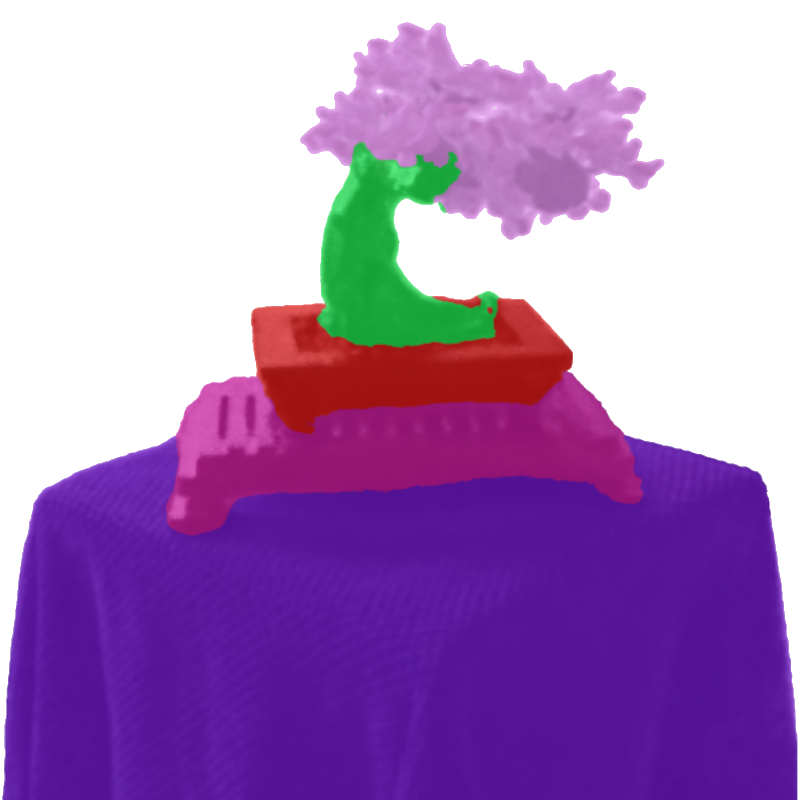
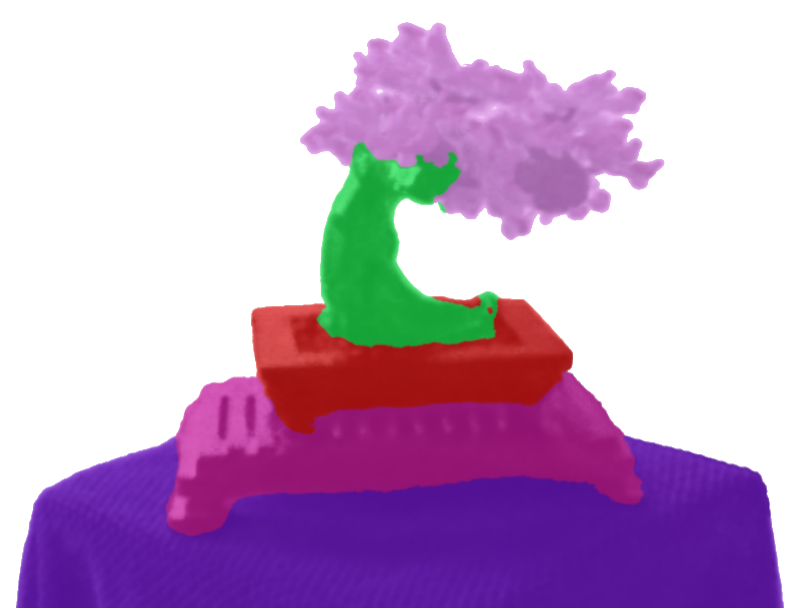
update papers and tighten publications

diff --git a/index.md b/index.md
@@ -32,62 +32,88 @@ layout: home
 
 <hr class="hr_style">
 <h1 style="text-align:center; margin-bottom: 30px;"> <b>Publications</b> </h1>
+<!-- <div class="centered_div medium">
+    <hr class="hr_style_thin">
+</div> -->
+
+<!-- Iterative-UDF, NeurIPS 2025 -->
+<div class="div_publication">
+    <div class="div_aligned div_box">
+    <div class="div_pub_left">
+        <img style="margin:5px; width:100%; border-radius:10px;" src="/assets/images/iterudf.png">
+    </div>
+    <div class="div_pub_right">
+        <b>High Resolution UDF Meshing via Iterative Networks</b><br>
+        Federico Stella, <b>Nicolas Talabot</b>, Hieu Le, Pascal Fua<br>
+        <i>NeurIPS 2025</i>
+        <a href="https://arxiv.org/abs/2509.17212">[arXiv]</a><br>
+        <!-- <p></p> -->
+        </div>
+    </div>
+</div>
+
+<!-- View-consistent Sampling for NeRFs, ICCV 2025 -->
+<div class="div_publication">
+    <div class="div_aligned div_box">
+    <div class="div_pub_left">
+        <img style="margin:5px; width:100%; border-radius:10px;" src="/assets/images/view-sampling.png">
+    </div>
+    <div class="div_pub_right"> 
+        <b>A View-consistent Sampling Method for Regularized Training of Neural Radiance Fields</b><br>
+        Aoxiang Fan, Corentin Dumery, <b>Nicolas Talabot</b>, Pascal Fua<br>
+        <i>ICCV 2025</i>
+        <a href="https://aoxiangfan.github.io/projects/nerf_sampling/index.html">[Project]</a> <a href="https://arxiv.org/abs/2507.04408">[arXiv]</a><br>
+        <!-- <p></p> -->
+        </div>
+    </div>
+</div>
 
 <!-- Pairwise SDF, MICCAI 2025 -->
 <div class="div_publication">
     <div class="div_aligned div_box">
     <div class="div_pub_left">
-        <img style="margin:5px; width:100%; border-radius:10px;" src="/assets/images/pairwise-sdf.png">
+        <img style="margin:5px; width:80%; border-radius:10px;" src="/assets/images/pairwise-sdf.png">
     </div>
     <div class="div_pub_right">
-        <h4 style="text-align: left;"><b>Pairwise-Constrained Implicit Functions for 3D Human Heart Modeling</b></h4>
-        <p>Hieu Le, Jingyi Xu, <b>Nicolas Talabot</b>, Jiancheng Yang, Pascal Fua</p>
-        <p><i>MICCAI 2025</i></p>
-        <p><a href="https://arxiv.org/pdf/2307.08716">[arXiv]</a></p>
+        <b>Pairwise-Constrained Implicit Functions for 3D Human Heart Modeling</b><br>
+        Hieu Le, Jingyi Xu, <b>Nicolas Talabot</b>, Jiancheng Yang, Pascal Fua<br>
+        <i>MICCAI 2025</i>
+        <a href="https://arxiv.org/pdf/2307.08716">[arXiv]</a><br>
         <!-- <p></p> -->
         </div>
     </div>
-</div>
-<div class="centered_div medium">
-    <hr class="hr_style_thin">
 </div>
 
 <!-- DiscoNeRF, CVPRW 2025 -->
 <div class="div_publication">
     <div class="div_aligned div_box">
     <div class="div_pub_left">
-        <img style="margin:5px; width:80%; border-radius:10px;" src="/assets/images/disconerf.png">
+        <img style="margin:5px; width:60%; border-radius:10px;" src="/assets/images/disconerf.png">
     </div>
     <div class="div_pub_right"> 
-        <h4 style="text-align: left;"><b>Enforcing View-Consistency in Class-Agnostic 3D Segmentation Fields</b></h4>
-        <p>Corentin Dumery, Aoxiang Fan, Ren Li, <b>Nicolas Talabot</b>, Pascal Fua</p>
-        <p><i>CVPRW 2025</i></p>
-        <p><a href="https://corentindumery.github.io/projects/disconerf.html">[Project]</a> <a href="https://arxiv.org/abs/2408.09928">[arXiv]</a> <a href="https://corentindumery.github.io/images/disconerf/CVPRW_DiscoNeRF_poster.pdf">[Poster]</a></p>
+        <b>Enforcing View-Consistency in Class-Agnostic 3D Segmentation Fields</b><br>
+        Corentin Dumery, Aoxiang Fan, Ren Li, <b>Nicolas Talabot</b>, Pascal Fua<br>
+        <i>CVPRW 2025</i>
+        <a href="https://corentindumery.github.io/projects/disconerf.html">[Project]</a> <a href="https://arxiv.org/abs/2408.09928">[arXiv]</a> <a href="https://corentindumery.github.io/images/disconerf/CVPRW_DiscoNeRF_poster.pdf">[Poster]</a><br>
         <!-- <p></p> -->
         </div>
     </div>
-</div>
-<div class="centered_div medium">
-    <hr class="hr_style_thin">
 </div>
 
 <!-- NSD-UDF, ECCV 2024 -->
 <div class="div_publication">
     <div class="div_aligned div_box">
     <div class="div_pub_left">
-        <img style="margin:5px; width:100%; border-radius:10px;" src="/assets/images/nsdudf.png">
+        <img style="margin:5px; width:80%; border-radius:10px;" src="/assets/images/nsdudf.png">
     </div>
     <div class="div_pub_right">
-        <h4 style="text-align: left;"><b>Neural Surface Detection for Unsigned Distance Fields</b></h4>
-        <p>Federico Stella, <b>Nicolas Talabot</b>, Hieu Le, Pascal Fua</p>
-        <p><i>ECCV 2024</i></p>
-        <p><a href="https://ilceltico.github.io/nsdudf/">[Project]</a> <a href="https://arxiv.org/abs/2407.18381">[arXiv]</a></p>
+        <b>Neural Surface Detection for Unsigned Distance Fields</b><br>
+        Federico Stella, <b>Nicolas Talabot</b>, Hieu Le, Pascal Fua<br>
+        <i>ECCV 2024</i>
+        <a href="https://ilceltico.github.io/nsdudf/">[Project]</a> <a href="https://arxiv.org/abs/2407.18381">[arXiv]</a><br>
         <!-- <p></p> -->
         </div>
     </div>
-</div>
-<div class="centered_div medium">
-    <hr class="hr_style_thin">
 </div>
 
 <!-- AxoID, Nature Neuroscience 2023 -->
@@ -97,16 +123,13 @@ layout: home
         <img style="margin:5px; width:100%; border-radius:10px;" src="/assets/images/axoid.png">
     </div>
     <div class="div_pub_right">
-        <h4 style="text-align: left;"><b>Ascending neurons convey behavioral state to integrative sensory and action selection brain regions</b></h4>
-        <p>Chin-Lin Chen, Florian Aymanns, Ryo Minegishi, Victor D. V. Matsuda, <b>Nicolas Talabot</b>, Semih Günel, Barry J. Dickson, Pavan Ramdya</p>
-        <p><i>Nature Neuroscience 2023</i></p>
-        <p><a href="https://www.nature.com/articles/s41593-023-01281-z">[Nature]</a> <a href="https://www.nature.com/articles/s41593-023-01281-z.pdf">[PDF]</a></p>
+        <b>Ascending neurons convey behavioral state to integrative sensory and action selection brain regions</b><br>
+        Chin-Lin Chen, Florian Aymanns, Ryo Minegishi, Victor D. V. Matsuda, <b>Nicolas Talabot</b>, Semih Günel, Barry J. Dickson, Pavan Ramdya<br>
+        <i>Nature Neuroscience 2023</i>
+        <a href="https://www.nature.com/articles/s41593-023-01281-z">[Nature]</a> <a href="https://www.nature.com/articles/s41593-023-01281-z.pdf">[PDF]</a><br>
         <!-- <p></p> -->
         </div>
     </div>
-</div>
-<div class="centered_div medium">
-    <hr class="hr_style_thin">
 </div>
 
 <!-- HybridSDF, 3DV 2022 -->
@@ -116,14 +139,11 @@ layout: home
         <img style="margin:5px; width:80%; border-radius:10px;" src="/projects/hybridsdf/images/mixer_clip.gif">
     </div>
     <div class="div_pub_right">
-        <h4 style="text-align: left;"><b>HybridSDF: Combining Deep Implicit Shapes and Geometric Primitives for 3D Shape Representation and Manipulation</b></h4>
-        <p>Subeesh Vasu<sup>*</sup>, <b>Nicolas Talabot<sup>*</sup></b>, Artem Lukoianov, Pierre Baqué, Jonathan Donier, Pascal Fua</p>
-        <p><i>3DV 2022</i></p>
-        <p><a href="/hybridsdf">[Project]</a> <a href="https://arxiv.org/abs/2109.10767">[arXiv]</a> <a href="https://www.youtube.com/watch?v=vkMtn5Q446E&list=PLDqmL95Gm8yLluJMGuplQdre9QwnobvCt&index=9">[Video]</a></p>
+        <b>HybridSDF: Combining Deep Implicit Shapes and Geometric Primitives for 3D Shape Representation and Manipulation</b><br>
+        Subeesh Vasu<sup>*</sup>, <b>Nicolas Talabot<sup>*</sup></b>, Artem Lukoianov, Pierre Baqué, Jonathan Donier, Pascal Fua<br>
+        <i>3DV 2022</i>
+        <a href="/hybridsdf">[Project]</a> <a href="https://arxiv.org/abs/2109.10767">[arXiv]</a> <a href="https://www.youtube.com/watch?v=vkMtn5Q446E&list=PLDqmL95Gm8yLluJMGuplQdre9QwnobvCt&index=9">[Video]</a><br>
         <!-- <p>Deep implicit surfaces excel at modeling generic shapes but do not always capture the regularities present in manufactured objects, which is something simple geometric primitives are particularly good at. In this paper, we propose a representation combining latent and explicit parameters that can be decoded into a set of deep implicit and geometric shapes that are consistent with each other. As a result, we can effectively model both complex and highly regular shapes that coexist in manufactured objects. This enables our approach to manipulate 3D shapes in an efficient and precise manner.</p> -->
         </div>
     </div>
-</div>
-<div class="centered_div medium">
-    <hr class="hr_style_thin">
 </div>
